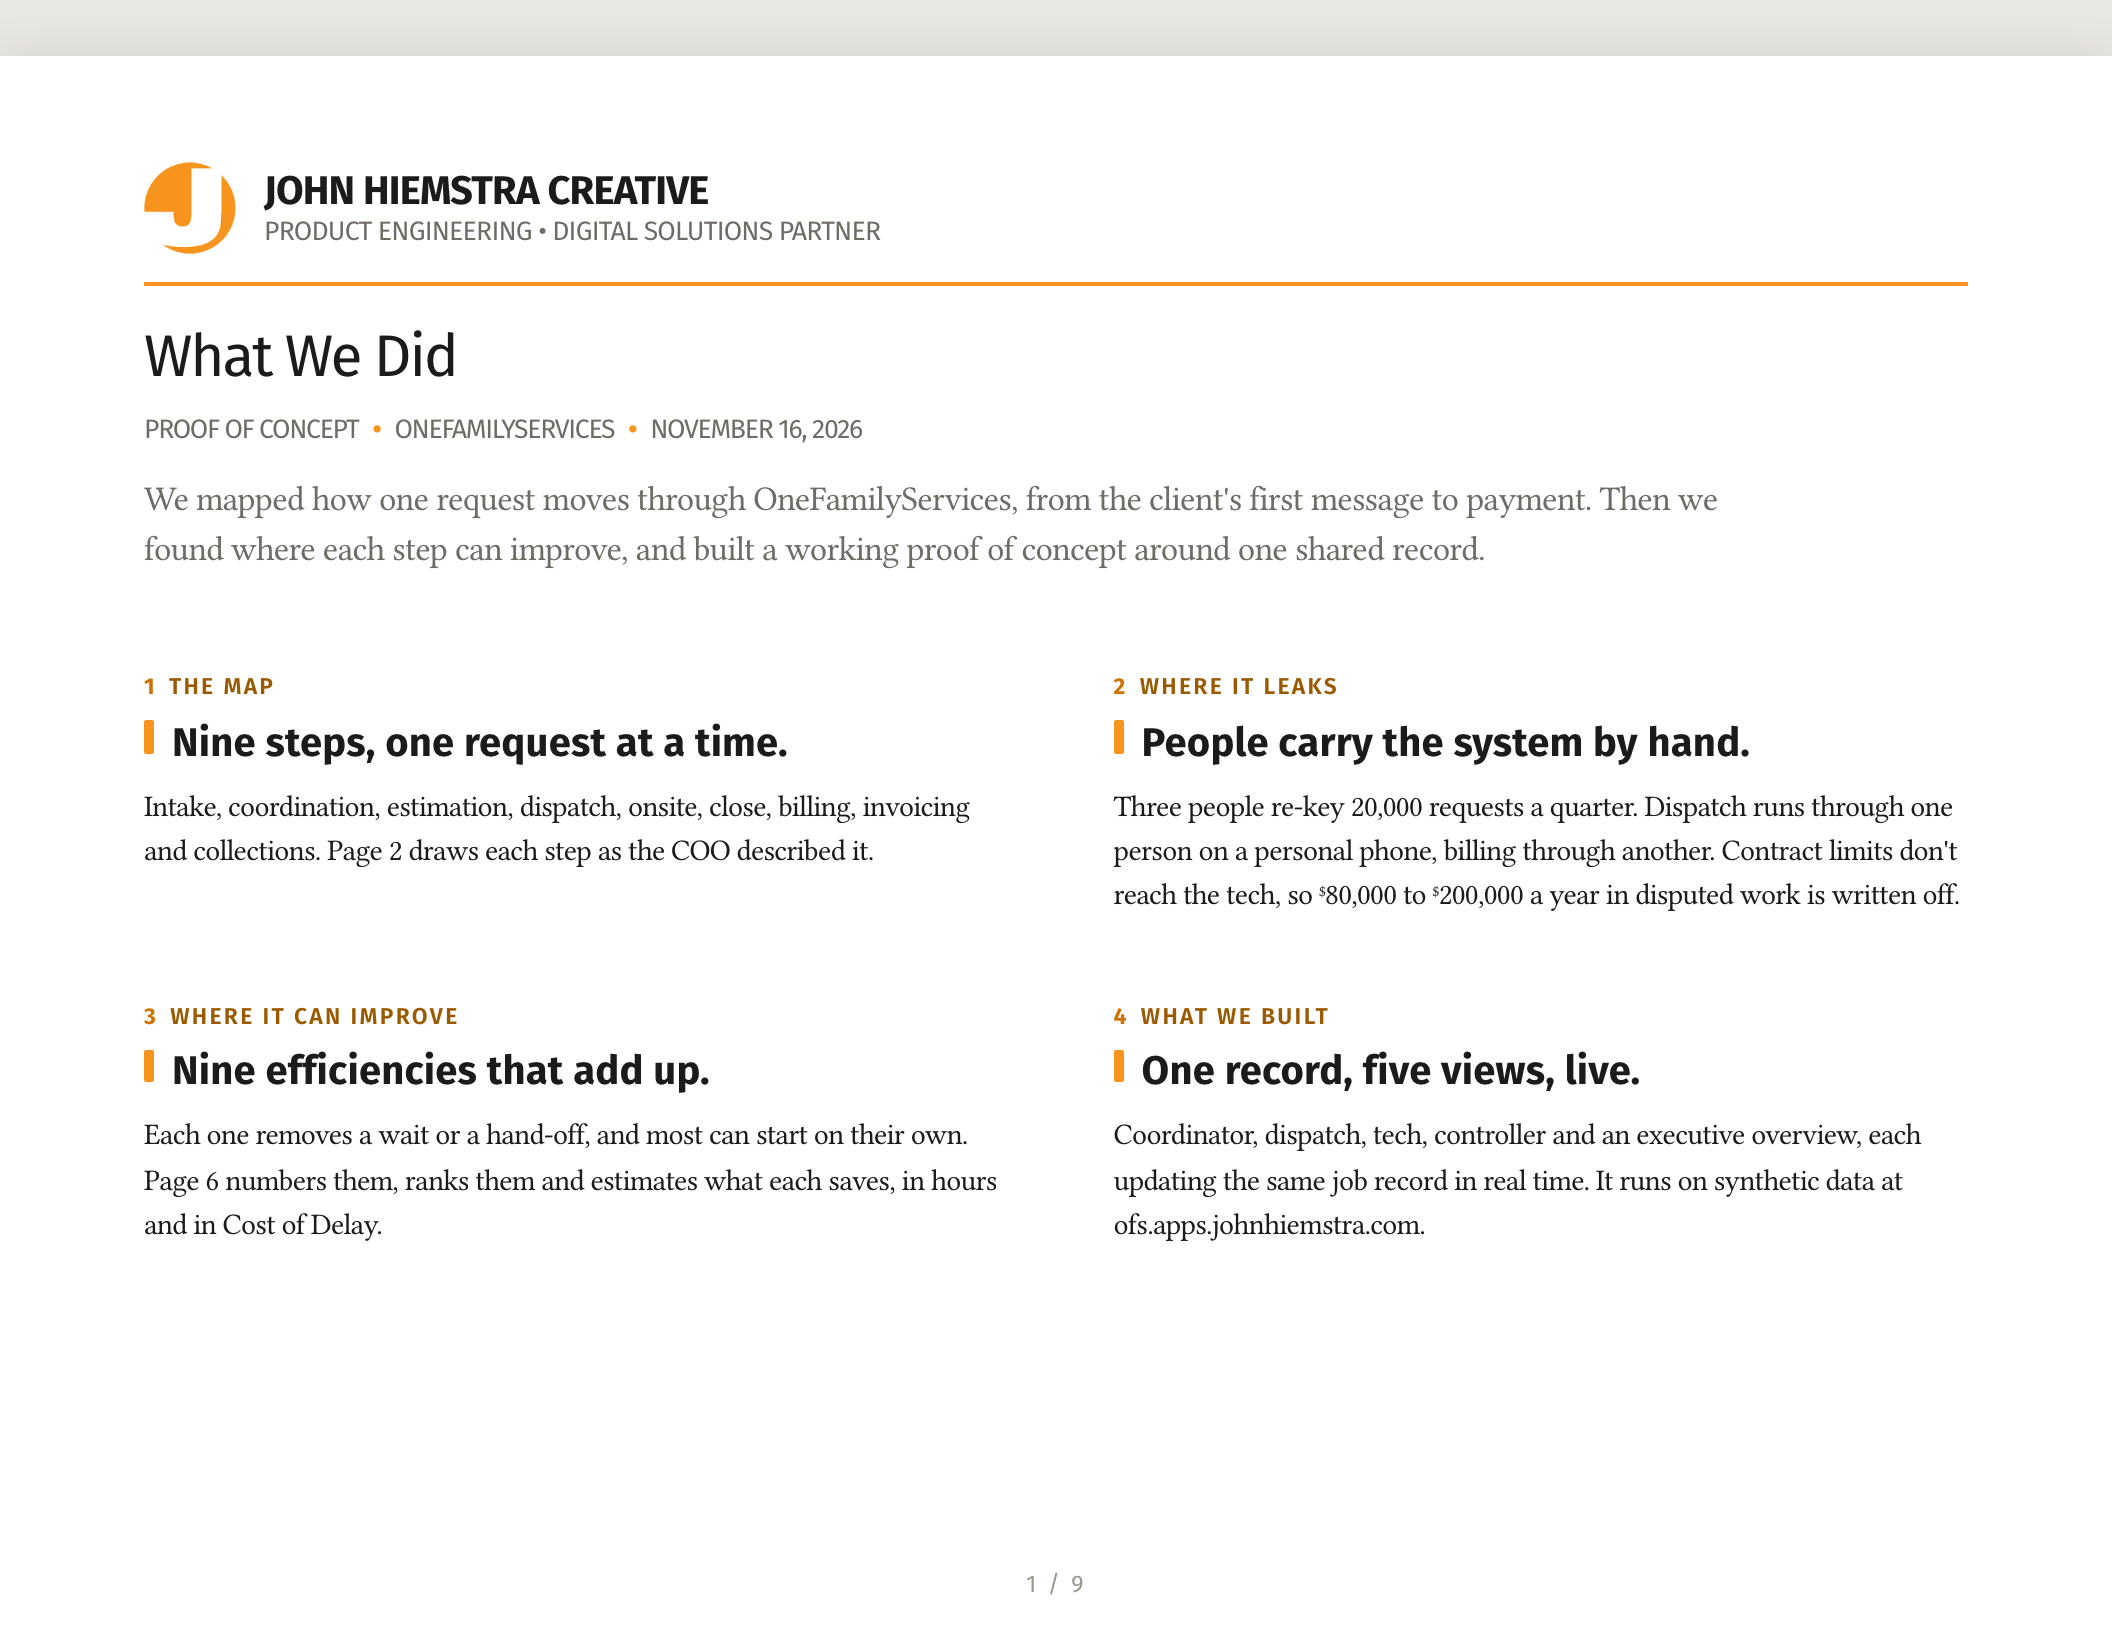
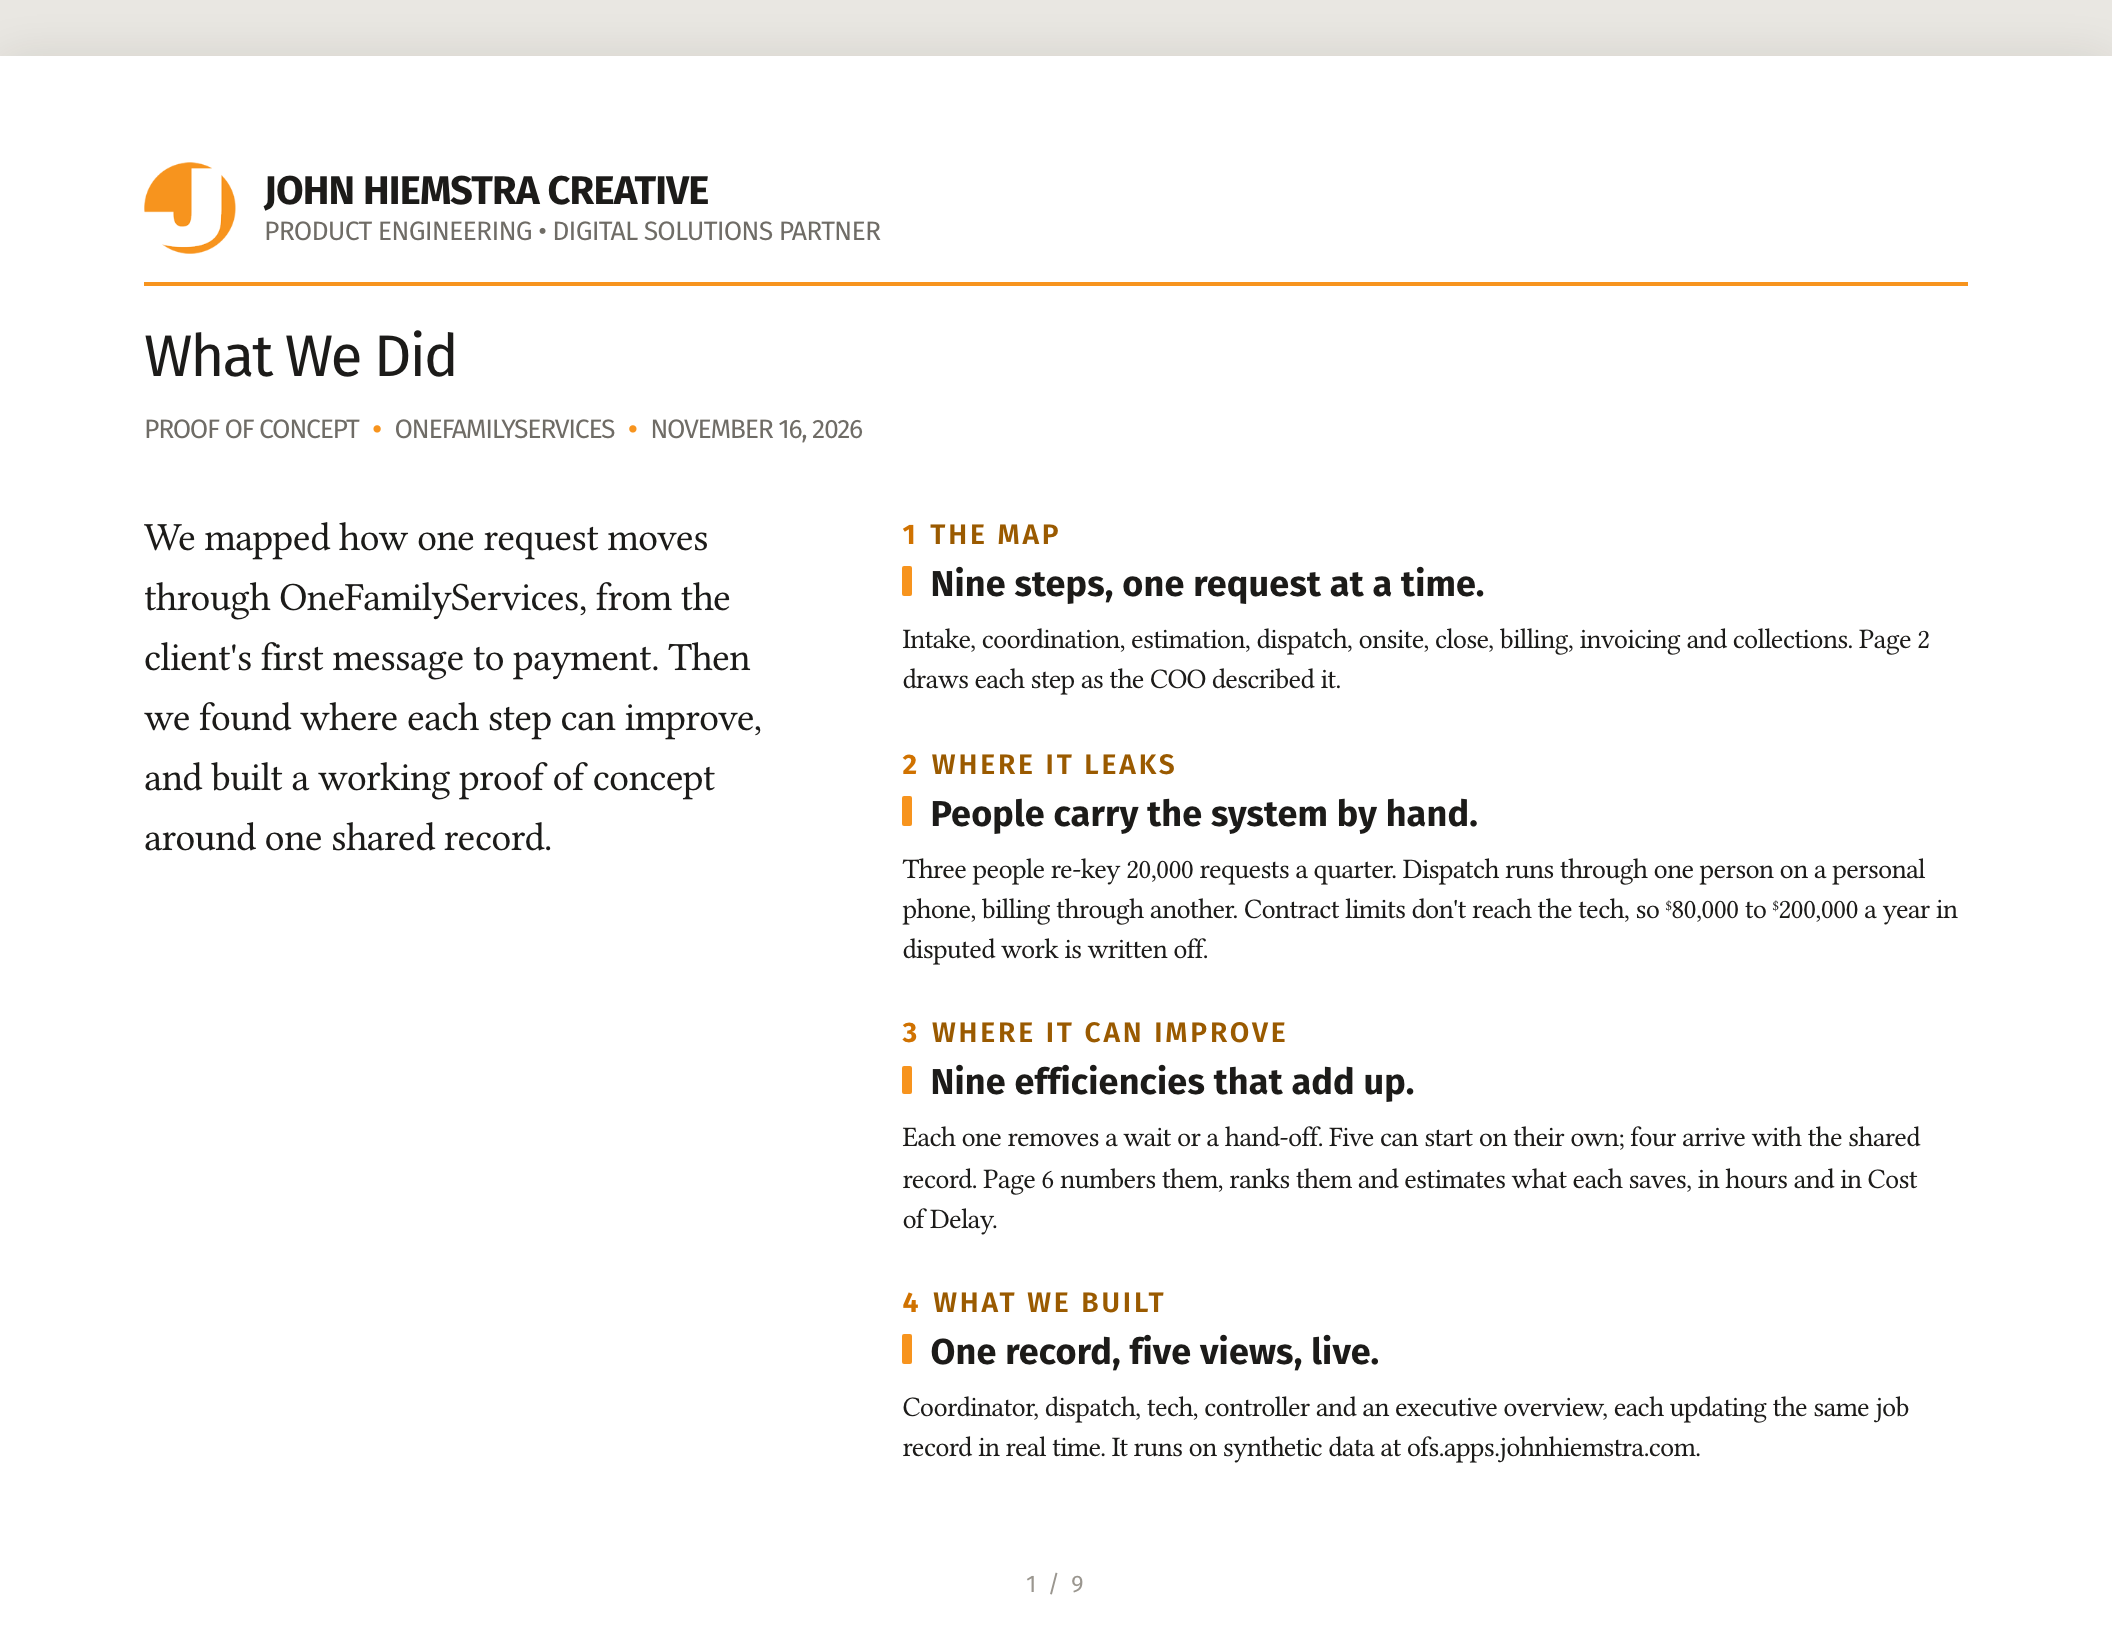
pages 1 and 3 in two columns; five on their own, four with the shared record (pages 1, 3, 5) (Angela)

Changed region(s): [[0.0625, 0.2812, 0.9375, 0.9062]]

diff --git a/docs/flow/final/page-3.html b/docs/flow/final/page-3.html
@@ -32,44 +32,47 @@
       <div class="meta">
         Proof of Concept<span class="dot">&bull;</span>OneFamilyServices<span class="dot">&bull;</span>November 16, 2026
       </div>
-      <p class="dek">
-        Our thesis: OneFamilyServices runs best when every request lives in one shared record, and every role works from
-        it. We get there in small steps, each one paying for itself. Page 6 shows the order.
-      </p>
-      <div class="sections">
-        <div class="sec">
-          <p class="k"><b>1</b>WHY ONE RECORD</p>
-          <h2>Detail is lost between people.</h2>
-          <p>
-            Requests arrive accurate enough. The detail goes missing in the handling: a notes field, a photo on a
-            personal phone, a spreadsheet. One record holds the job's state, its contract and its history, where every
-            role can find them.
-          </p>
-        </div>
-        <div class="sec">
-          <p class="k"><b>2</b>GUARDRAILS FIRST</p>
-          <h2>The contract checks come before the work.</h2>
-          <p>
-            Each client's limits, like a price cap that needs prior approval, sit on the record before a tech is
-            dispatched. Work held for the client's sign-off is work that never turns into a disputed invoice.
-          </p>
-        </div>
-        <div class="sec">
-          <p class="k"><b>3</b>ONE SOURCE OF TRUTH</p>
-          <h2>Every change reaches every view.</h2>
-          <p>
-            Each role updates the record, and the record tells everyone else within a second. Software drafts and
-            recommends; people review and decide. Nobody calls dispatch to learn where a job stands.
-          </p>
-        </div>
-        <div class="sec">
-          <p class="k"><b>4</b>READY TO GROW</p>
-          <h2>New companies join the record.</h2>
-          <p>
-            The expansion adds companies, trucks and techs. Each one joins the same record and the same views, not
-            another set of phones and spreadsheets. The record's history times every step, so growth is measured as it
-            happens.
-          </p>
+      <div class="twocol">
+        <p class="dek">
+          Our thesis: OneFamilyServices runs best when every request lives in one shared record, and every role works
+          from it. We get there in steps: five efficiencies work on their own today, and four arrive with the shared
+          record. Page 6 shows the order.
+        </p>
+        <div class="sections">
+          <div class="sec">
+            <p class="k"><b>1</b>WHY ONE RECORD</p>
+            <h2>Detail is lost between people.</h2>
+            <p>
+              Requests arrive accurate enough. The detail goes missing in the handling: a notes field, a photo on a
+              personal phone, a spreadsheet. One record holds the job's state, its contract and its history, where every
+              role can find them.
+            </p>
+          </div>
+          <div class="sec">
+            <p class="k"><b>2</b>GUARDRAILS FIRST</p>
+            <h2>The contract checks come before the work.</h2>
+            <p>
+              Each client's limits, like a price cap that needs prior approval, sit on the record before a tech is
+              dispatched. Work held for the client's sign-off is work that never turns into a disputed invoice.
+            </p>
+          </div>
+          <div class="sec">
+            <p class="k"><b>3</b>ONE SOURCE OF TRUTH</p>
+            <h2>Every change reaches every view.</h2>
+            <p>
+              Each role updates the record, and the record tells everyone else within a second. Software drafts and
+              recommends; people review and decide. Nobody calls dispatch to learn where a job stands.
+            </p>
+          </div>
+          <div class="sec">
+            <p class="k"><b>4</b>READY TO GROW</p>
+            <h2>New companies join the record.</h2>
+            <p>
+              The expansion adds companies, trucks and techs. Each one joins the same record and the same views, not
+              another set of phones and spreadsheets. The record's history times every step, so growth is measured as it
+              happens.
+            </p>
+          </div>
         </div>
       </div>
       <div class="folio">3 / 9</div>

diff --git a/docs/flow/final/page-1.html b/docs/flow/final/page-1.html
@@ -32,43 +32,45 @@
       <div class="meta">
         Proof of Concept<span class="dot">&bull;</span>OneFamilyServices<span class="dot">&bull;</span>November 16, 2026
       </div>
-      <p class="dek">
-        We mapped how one request moves through OneFamilyServices, from the client's first message to payment. Then we
-        found where each step can improve, and built a working proof of concept around one shared record.
-      </p>
-      <div class="sections">
-        <div class="sec">
-          <p class="k"><b>1</b>THE MAP</p>
-          <h2>Nine steps, one request at a time.</h2>
-          <p>
-            Intake, coordination, estimation, dispatch, onsite, close, billing, invoicing and collections. Page 2 draws
-            each step as the COO described it.
-          </p>
-        </div>
-        <div class="sec">
-          <p class="k"><b>2</b>WHERE IT LEAKS</p>
-          <h2>People carry the system by hand.</h2>
-          <p>
-            Three people re-key 20,000 requests a quarter. Dispatch runs through one person on a personal phone, billing
-            through another. Contract limits don't reach the tech, so <span class="cur">$</span>80,000 to
-            <span class="cur">$</span>200,000 a year in disputed work is written off.
-          </p>
-        </div>
-        <div class="sec">
-          <p class="k"><b>3</b>WHERE IT CAN IMPROVE</p>
-          <h2>Nine efficiencies that add up.</h2>
-          <p>
-            Each one removes a wait or a hand-off, and most can start on their own. Page 6 numbers them, ranks them and
-            estimates what each saves, in hours and in Cost of Delay.
-          </p>
-        </div>
-        <div class="sec">
-          <p class="k"><b>4</b>WHAT WE BUILT</p>
-          <h2>One record, five views, live.</h2>
-          <p>
-            Coordinator, dispatch, tech, controller and an executive overview, each updating the same job record in real
-            time. It runs on synthetic data at ofs.apps.johnhiemstra.com.
-          </p>
+      <div class="twocol">
+        <p class="dek">
+          We mapped how one request moves through OneFamilyServices, from the client's first message to payment. Then we
+          found where each step can improve, and built a working proof of concept around one shared record.
+        </p>
+        <div class="sections">
+          <div class="sec">
+            <p class="k"><b>1</b>THE MAP</p>
+            <h2>Nine steps, one request at a time.</h2>
+            <p>
+              Intake, coordination, estimation, dispatch, onsite, close, billing, invoicing and collections. Page 2
+              draws each step as the COO described it.
+            </p>
+          </div>
+          <div class="sec">
+            <p class="k"><b>2</b>WHERE IT LEAKS</p>
+            <h2>People carry the system by hand.</h2>
+            <p>
+              Three people re-key 20,000 requests a quarter. Dispatch runs through one person on a personal phone,
+              billing through another. Contract limits don't reach the tech, so <span class="cur">$</span>80,000 to
+              <span class="cur">$</span>200,000 a year in disputed work is written off.
+            </p>
+          </div>
+          <div class="sec">
+            <p class="k"><b>3</b>WHERE IT CAN IMPROVE</p>
+            <h2>Nine efficiencies that add up.</h2>
+            <p>
+              Each one removes a wait or a hand-off. Five can start on their own; four arrive with the shared record.
+              Page 6 numbers them, ranks them and estimates what each saves, in hours and in Cost of Delay.
+            </p>
+          </div>
+          <div class="sec">
+            <p class="k"><b>4</b>WHAT WE BUILT</p>
+            <h2>One record, five views, live.</h2>
+            <p>
+              Coordinator, dispatch, tech, controller and an executive overview, each updating the same job record in
+              real time. It runs on synthetic data at ofs.apps.johnhiemstra.com.
+            </p>
+          </div>
         </div>
       </div>
       <div class="folio">1 / 9</div>

diff --git a/docs/flow/final/page-5.html b/docs/flow/final/page-5.html
@@ -141,8 +141,8 @@
         Proof of Concept<span class="dot">&bull;</span>OneFamilyServices<span class="dot">&bull;</span>November 16, 2026
       </div>
       <p class="dek">
-        Each numbered gear is an efficiency from the table on page 6. Each one works on its own; together they
-        centralize the source of truth for every request, so people decide with every fact in view.
+        Each numbered gear is an efficiency from the table on page 6. Five work on their own today; four arrive with the
+        shared record. Together they centralize the source of truth for every request.
       </p>
       <svg class="fig" viewBox="-2 -2 984 504" xmlns="http://www.w3.org/2000/svg" style="width: 9.5in; margin-top: 8px">
         <defs>

diff --git a/docs/flow/final/final.css b/docs/flow/final/final.css
@@ -65,3 +65,10 @@ table.opps.nine + .note{margin-top:4px;}
 .sheet.pinned .figwrap svg.fig{margin:0;}
 .sheet.pinned svg.key{display:block;margin:6px 0 0;flex-shrink:0;height:auto;}
 .sheet.pinned .folio{margin-top:0;}
+
+/* Pages 1 and 3 (2026-11-17): two columns, the text block left, the sections stacked right */
+.twocol{display:grid;grid-template-columns:3.4in 1fr;column-gap:0.55in;margin-top:0.3in;align-items:start;}
+.twocol .dek{margin:0;font-size:15pt;line-height:1.5;color:var(--ink);max-width:none;}
+.twocol .sections{grid-template-columns:1fr;row-gap:0.2in;margin-top:0;}
+.twocol .sec h2{font-size:13.5pt;margin-top:2px;}
+.twocol .sec p{font-size:10.6pt;line-height:1.42;margin-top:4px;}

diff --git a/docs/flow/final/graphics.py b/docs/flow/final/graphics.py
@@ -362,8 +362,8 @@ PAGES = {
         "checks and notifications, and streamlines communication through one shared record, so the same people make "
         "better decisions faster as the volume of business grows.", svg_recommended),
     5: ("Flow Improvement Opportunities",
-        "Each numbered gear is an efficiency from the table on page 6. Each one works on its own; together they "
-        "centralize the source of truth for every request, so people decide with every fact in view.",
+        "Each numbered gear is an efficiency from the table on page 6. Five work on their own today; four arrive with "
+        "the shared record. Together they centralize the source of truth for every request.",
         svg_opportunities),
     8: ("Application Surfaces", None, svg_application),
 }

diff --git a/docs/plans/2026-11-16-final-presentation.md b/docs/plans/2026-11-16-final-presentation.md
@@ -105,3 +105,4 @@ intake people, $80K–$200K a year written off in disputes, QuickBooks and a few
 | R8 | The end of the flow (2026-11-17): invoicing drafts and exports to client systems and QuickBooks; QuickBooks comes first and feeds both collections (the final phase) and the company's accounting |
 | R9 | Page 10 (2026-11-17): the demo passwords, unbranded, in a TEST copy only (`assemble.py --with-logins`, gitignored); out of the final version |
 | R10 | Page 6 (2026-11-17): no dek; rows 4, 5, 6 and 7 are long term, since each needs the centralized record. Immediate: 2, 8, 9. Short term: 1, 3 |
+| R11 | Pages 1, 3 and 5 (2026-11-17): "five work on their own today; four arrive with the shared record"; pages 1 and 3 in two columns, the text block left, the sections right |
